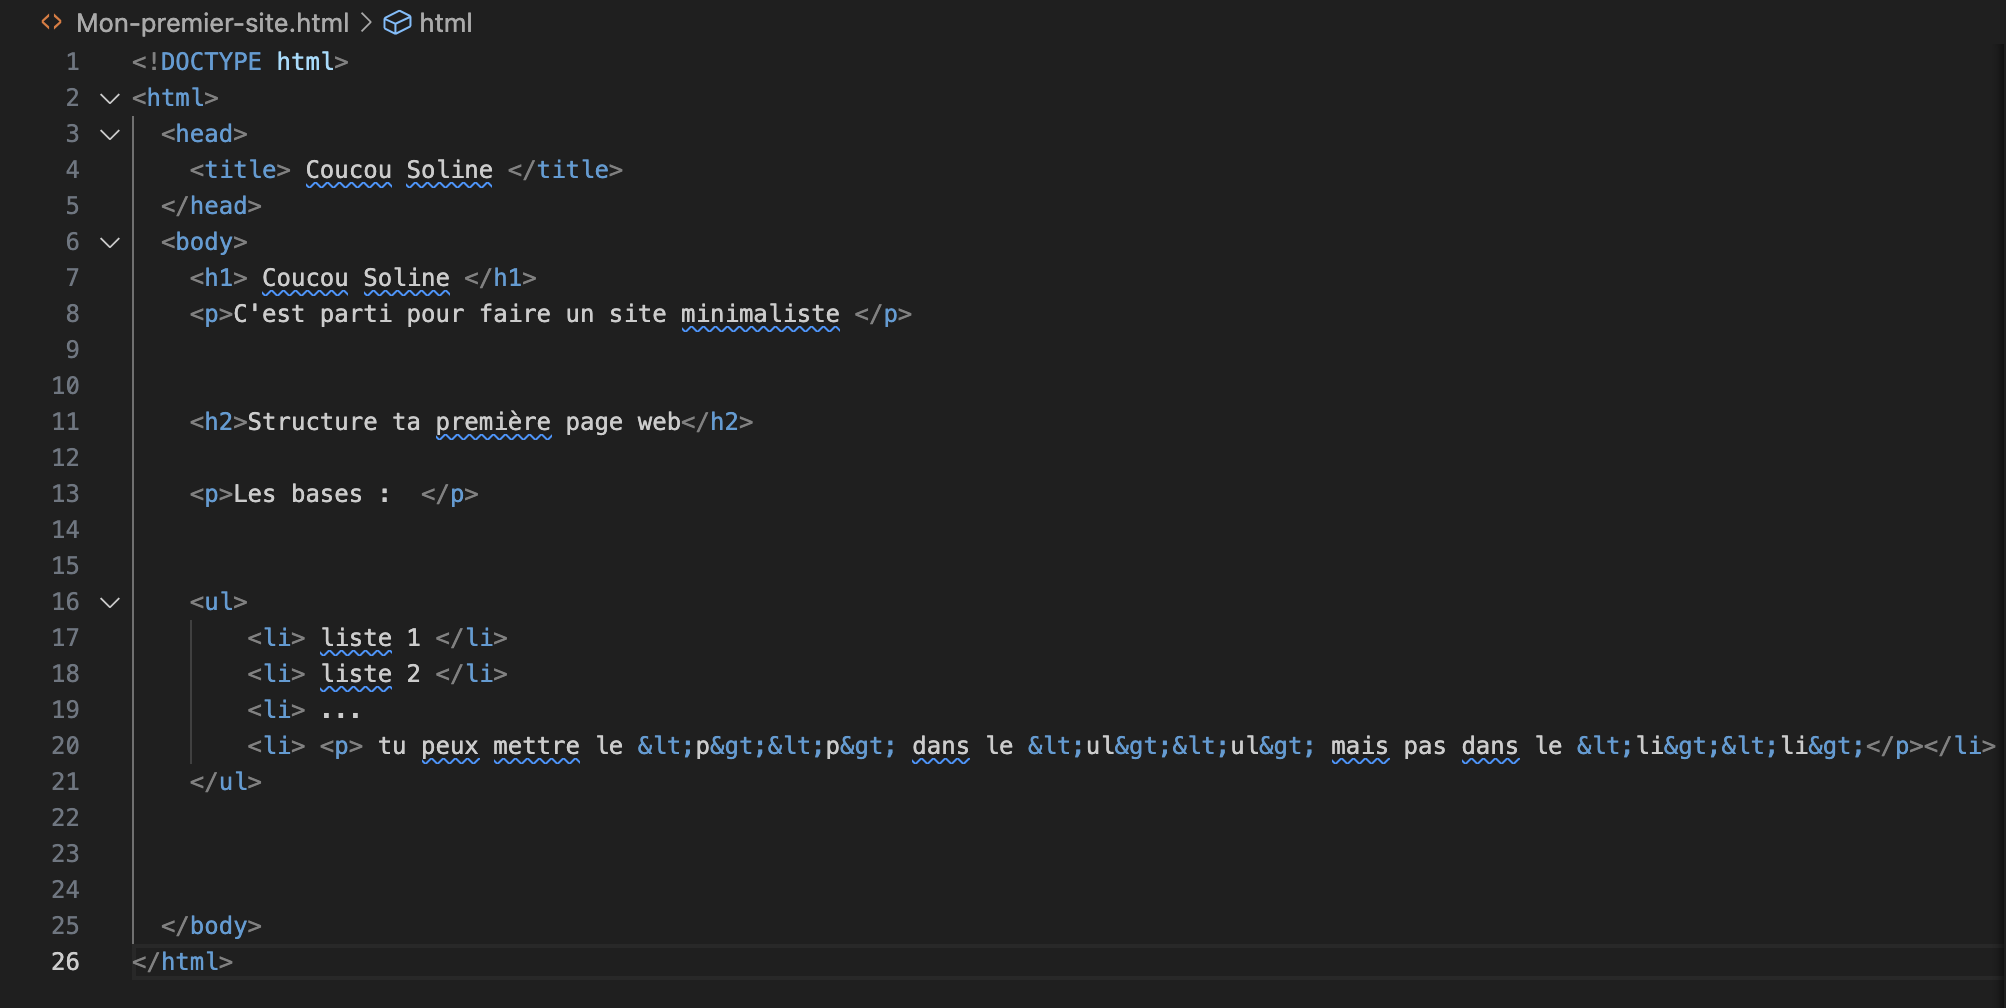
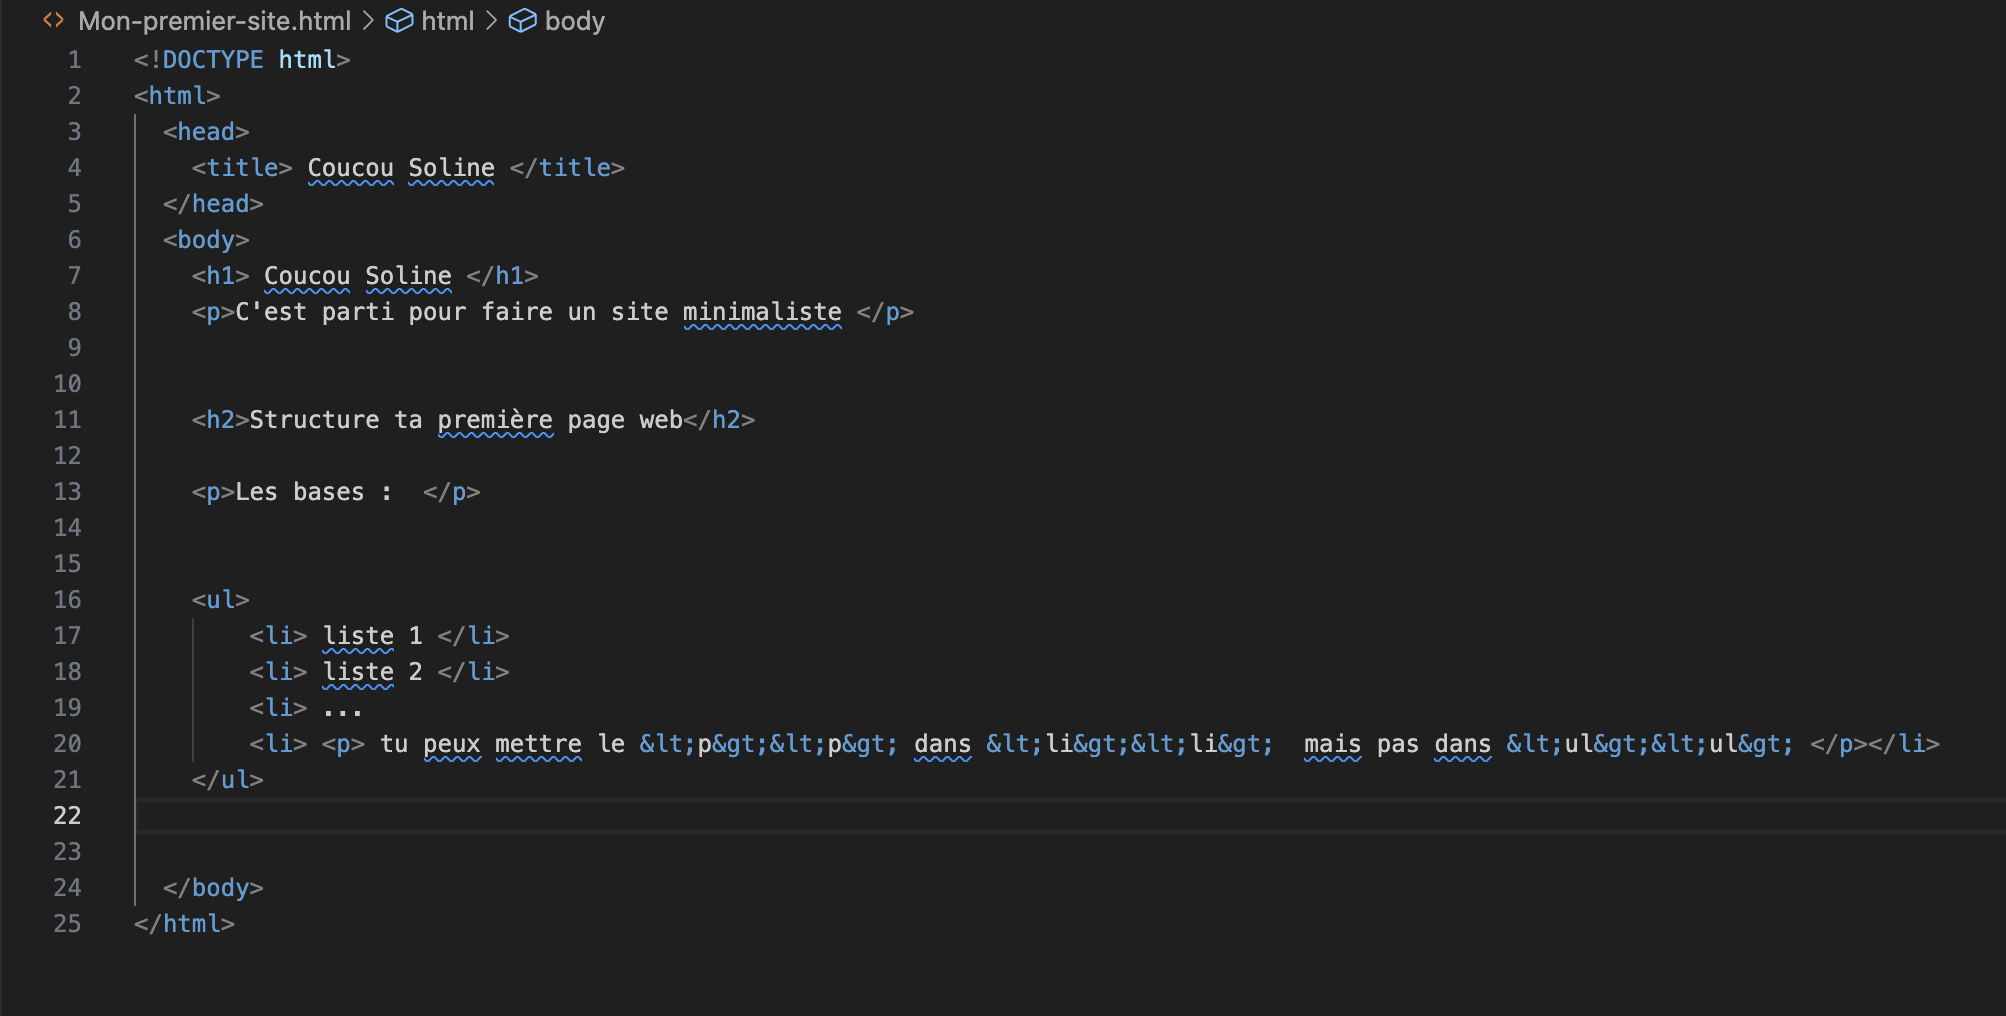
fin partie 1 mon 1

diff --git a/src/promos/2023-2024/Lola-Bourdon/mon/temps-1.1/index.md b/src/promos/2023-2024/Lola-Bourdon/mon/temps-1.1/index.md
@@ -18,7 +18,7 @@ Mes objectifs pour ce premier MON sont de découvirir les bases des langages HTM
 
 ##  Méthodologie 
 
-Pour me former aux langages html et css, je suis partie de zéro. J'ai suivi, comme beaucoup, les cours de https://internetingishard.netlify.app . 
+Pour me former aux langages html et css, je suis partie de zéro. J'ai suivi, comme beaucoup, les cours de https://internetingishard.netlify.app. 
 Il est temps de partager mes nouvelles compétences avec Soline pour qu'elle soit capabble de faire son site web basique, sans trop approfondir ses connaissances.
 
 ## 1. Prérequis
@@ -28,57 +28,80 @@ Pour commencer, Soline aura besoin d'utiliser sur son ordinateur un éditeur de 
 Sur VScode, elle devra suivre les étapes suivantes : 
 1. Dans l’explorateur de fichier, créer un dossier : "Mon-premier-site-vsc »
 3. Ouvrir l'application VsCode et choisir Fichier > ouvrir > fichier puis naviguer jusqu'au dossier "Mon-premier-site-vsc".
-4. Accepter de faire confiances aux auteurs, puisque c'est elle
-5. Installer l’extension live folder : extension > live folder > installer, qui lui permettra de visualiser son super site web basique
-6. Créer un nouveau fichier html "premier-essai.html" un icone <> devrait apparaitre devant le nom du dossier 
+4. Installer l’extension live folder : extension > live folder > installer, qui lui permettra de visualiser son super site web basique
+5. Créer un nouveau fichier html "premier-essai.html", un icone <> devrait apparaitre devant le nom du dossier 
 
 ## 2. Les bases 
 Maintenant que Soline est sur la fenêtre de son fichier html, voici quelques bases :
 
-On commence le fichier html avec &lt;html&gt;&lt;/html&gt;.
-Maintenant l’intégralité de la page Web doit être enveloppée dans des balises &lt;html&gt;&lt;/html&gt;. 
-&lt;html&gt;ouvre le code et &lt;/html&gt; le ferme.
+Un fichier html se commence avec <strong> &lt;html&gt;&lt;/html&gt;. </strong>
+Maintenant l’intégralité de la page Web doit être enveloppée dans  &lt;html&gt; tout le code &lt;/html&gt;. 
 
 
-
-Entres les &lt;html&gt;&lt;/html&gt; :
+Entres les <strong> &lt;html&gt;&lt;/html&gt;. </strong>:
 - Il ne faut jamais mélanger les imbrications 
 - Placer &lt;head&gt;&lt;/head&gt; qui fait référence aux titres, langages CSS, et contenu qui ne seront pas visible directement sur le site 
-- On pourra ecrire le titre de la page entre &lt;title&gt;&lt;/title&gt; mais il n'apparaitra pas directement sur le site.
-- Maintenant que le head est fermée mais pas le &lt;/html&gt;, on utilisera &lt;body&gt;&lt;/body&gt; qui encadre le contenu visible, rien ne s'affiche  sur la page web lorsqu'il est vide 
+-  Ecrire le titre de la page entre &lt;title&gt;&lt;/title&gt; même si il n'apparaitra pas directement sur le site.
 
-Dans &lt;body&gt;&lt;/body&gt; :
+Maintenant que le &lt;head&gt; est fermée mais pas le &lt;/html&gt;, placer &lt;body&gt;&lt;/body&gt; qui encadre le contenu visible, rien ne s'affiche  sur la page web lorsqu'il est vide 
+
+Dans <strong>&lt;body&gt;&lt;/body&gt;</strong> :
 - &lt;p&gt;&lt;p&gt; encadre les paragraphes,  
 - &lt;h1&gt;&lt;/h1&gt;à &lt;h6&gt;&lt;/h6&gt; sont pour les titres du plus au moins gros 
-- &lt;ul&gt;&lt;ul&gt;et &lt;li&gt;&lt;/li&gt; servent pour les listes simple et sont indissociables
+- &lt;ul&gt;&lt;/ul&gt;et &lt;li&gt;&lt;/li&gt; servent pour les listes simple et sont indissociables
 - On peut mettre le &lt;p&gt;&lt;p&gt; dans le &lt;li&gt;&lt;li&gt; mais pas dans le &lt;ul&gt;&lt;ul&gt;
 - Pour faire apparaitre les crochets sur la page il suffira de les encadrer par &lt ; &gt ; sans espace entre le t et le point virgule
 
-Voyons ce que ces premières informations drendent sur un site web basique:
+Voyons ce que ces premières informations rendent sur un site web basique  pour cela, il suffit de faire clique droit sur le nom du fichier html et de cliquer sur <em> Open with Live Server </em>:
 
 <img src="code1.png">
 <img src="screen1.png">
 
-Il existe également des liste ordonnes qui permettent de numéroter la liste. Cela fonctionne de la même manière mais on remplacera le &lt;ul&gt; par &lt;ol&gt;&lt;ol&gt;.
-On utilisra &lt;ol&gt;&lt;ol&gt; pour les recettes, les instructions et même les tables.
-On utilisera &lt;ul&gt; pour les inventaires d'articles, les caractéristiques des produits, les comparaisons pour/contre et les menus de navigation.
+Il existe également des liste ordonnée qui permettent de numéroter la liste. Cela fonctionne de la même manière mais on remplacera le &lt;ul&gt;&lt;/ul&gt;par &lt;ol&gt;&lt;ol&gt;
 
-### Ecrire en Italique ou en gras
+### Ecrire en Italique, gras ou souligné
 
-Pour écrire en <em>italique</em>, il faut utiliser  la commande &lt;em&gt; <em>  texte </em> &lt;/em&gt; qui n'affecte qu'une partie du texte de la ligne, à la différence de &lt;p&gt;&lt;p&gt;  qui est un élément de niveau bloc.
+Pour écrire en <em>italique</em> :
+- Utiliser  la commande &lt;em&gt; <em>  texte </em> &lt;/em&gt; 
 
-De la même manière, Pour écrire en <strong>gras</strong>, on utilisera &lt;strong&gt; <strong> texte </strong> &lt;/strong&gt;
+Pour écrire en <strong>gras</strong> :
+- Utiliser la commande &lt;strong&gt; <strong> texte </strong> &lt;/strong&gt;
+
+Pour écrire en <u>Souligné : </u>
+- Utiliser la commande &lt;u&gt; <u> texte </u>&lt;/u&gt; 
 
 On peux également imbriquer un élément gras dans un italique ou vice versa avec :</strong></em> &lt;em&gt;&lt;strong&gt;<em><strong> texte  </strong></em> &lt;/strong&gt;&lt;/em&gt;
-      
+
+Avec ces nouvelles informations, voyons ce que cela peut donner sur donner sur notre super site web :
+
+
+<img src="screen2.png">
+<img src="code2.png">
+<img src="code3.png">
  
  
- 
-      <h3> Les élements vides </h3>
-Les sauts de ligne et les règles horizontales sont les éléments vides les plus courants. Pour indiquer au navigateur un saut de ligne définitif, il faut utiliser un seul élément &lt;/br&gt; 
-C'est utilisé pour les signatures, non pas pour sauter beaucoup de ligne 
+ ### Les Eléments Vides 
+Les sauts de ligne et les lignes horizontales sont les éléments vides les plus courants. 
+Pour indiquer un <u>saut de ligne définitif,</u> utiliser un seul élément <strong> &lt;/br&gt; </strong>
+Pour les lignes horizontales, utiliser <strong>&lt;hr/&gt;</strong>.
 
-Pour les lignes horizontales, on utiliserz simplement &lt;/hr&gt; souvent utile pour une rupture thématique.
+###  Images
 
-</hr>
+Pour finir la formation simple et rapide de Soline, parlons de comment insérer une une image sur notre super site web basique.
 
+Pour cela, il faudra ajouter au dossier <em>"Mon-premier-site-vsc"</em>, les images que l'on utiliser, de la manière suivante :
+
+<img src="screen3.png"> 
+
+Partons du principe que soline n'a que des images.png. Il faut utiliser la commande <strong>&lt;img src='/code1.png'/&gt; </strong>
+
+On pourra ajuster la taille avec : <strong> &lt;img src='/screen3.png'  width='200'/&gt; </strong>
+
+Le fin du site final est le suivant :
+
+<img src="dernierscreen.png">
+<img src="derniercode.png">
+
+## 3. Amélioration du site 
+
+La partie html du site est terminée mais l'esthétique n'est pas forcément la meilleure. Pour l'améliorer j'ai fait mes premiers pas avec CSS en me basant toujours sur les cours de https://internetingishard.netlify.app. 
